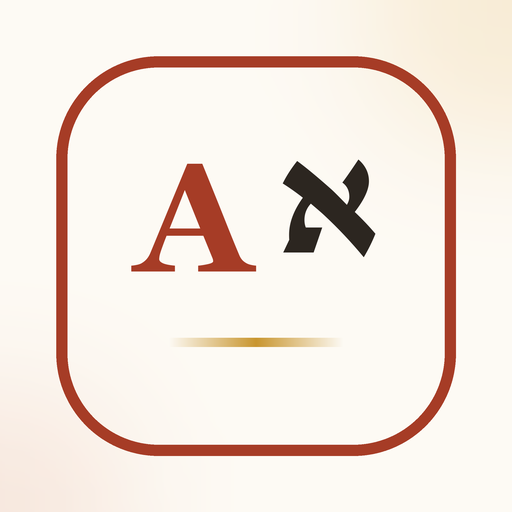
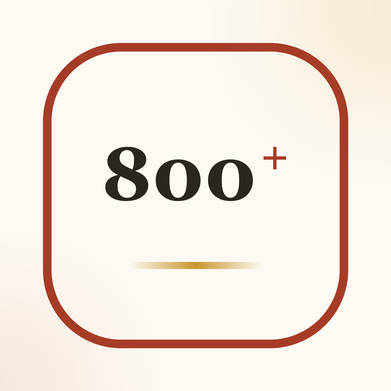
האייקון הוא השם: 800+ · v98
א ו-A טענו טענה שהמוצר לא טוען. השם הוא 800+, בעמוד הנחיתה,
בכל מייל, בכתובת — ואייקון שלא אומר את השם מבקש מהמשתמש לזכור
מיפוי נוסף בלי סיבה.

הטיפוגרפיה מותאמת לרוחב הטבעת ולא נקבעת בניחוש: הניסיון הראשון
גלש מהמסגרת והפלוס נפל אל מחוץ לה לגמרי. עכשיו נמדד ומוקטן עד
שהצירוף נכנס עם אוויר. הפלוס מורם וקטן, ברסט — סימן על המספר,
לא ספרה רביעית שמתחרה על רוחב ב-48 פיקסלים.

Changed region(s): [[0.2455, 0.3069, 0.7366, 0.5524], [0.3376, 0.6445, 0.6445, 0.7059]]

diff --git a/index.html b/index.html
@@ -1278,14 +1278,14 @@
 
 <div class="toast" id="toast" role="status" aria-live="polite"></div>
 
-<script src="supabase.min.js?v=97"></script>
-<script src="config.js?v=97"></script>
-<script src="store.js?v=97"></script>
-<script src="leveltest-he.js?v=97"></script>
-  <script src="leveltest.js?v=97"></script>
-<script src="enrank.js?v=97"></script>
-<script src="data.js?v=97"></script>
-<script src="data-en.js?v=97"></script>
-<script src="app.js?v=97"></script>
+<script src="supabase.min.js?v=98"></script>
+<script src="config.js?v=98"></script>
+<script src="store.js?v=98"></script>
+<script src="leveltest-he.js?v=98"></script>
+  <script src="leveltest.js?v=98"></script>
+<script src="enrank.js?v=98"></script>
+<script src="data.js?v=98"></script>
+<script src="data-en.js?v=98"></script>
+<script src="app.js?v=98"></script>
 </body>
 </html>

diff --git a/sw.js b/sw.js
@@ -2,7 +2,7 @@
    ONE place to bump on every deploy: REV. It names the cache *and* the asset query strings,
    so the URLs precached here are byte-for-byte the URLs index.html requests. When those drift
    apart the app silently keeps serving an old build — which is exactly what used to happen. */
-const REV = '97';
+const REV = '98';
 const V = 'hw-v' + REV;
 /* App DATA must not live in a versioned cache. The personalised reminder text was written into
    hw-v<REV>, so the next deploy deleted it along with the assets — and it was never rewritten,
